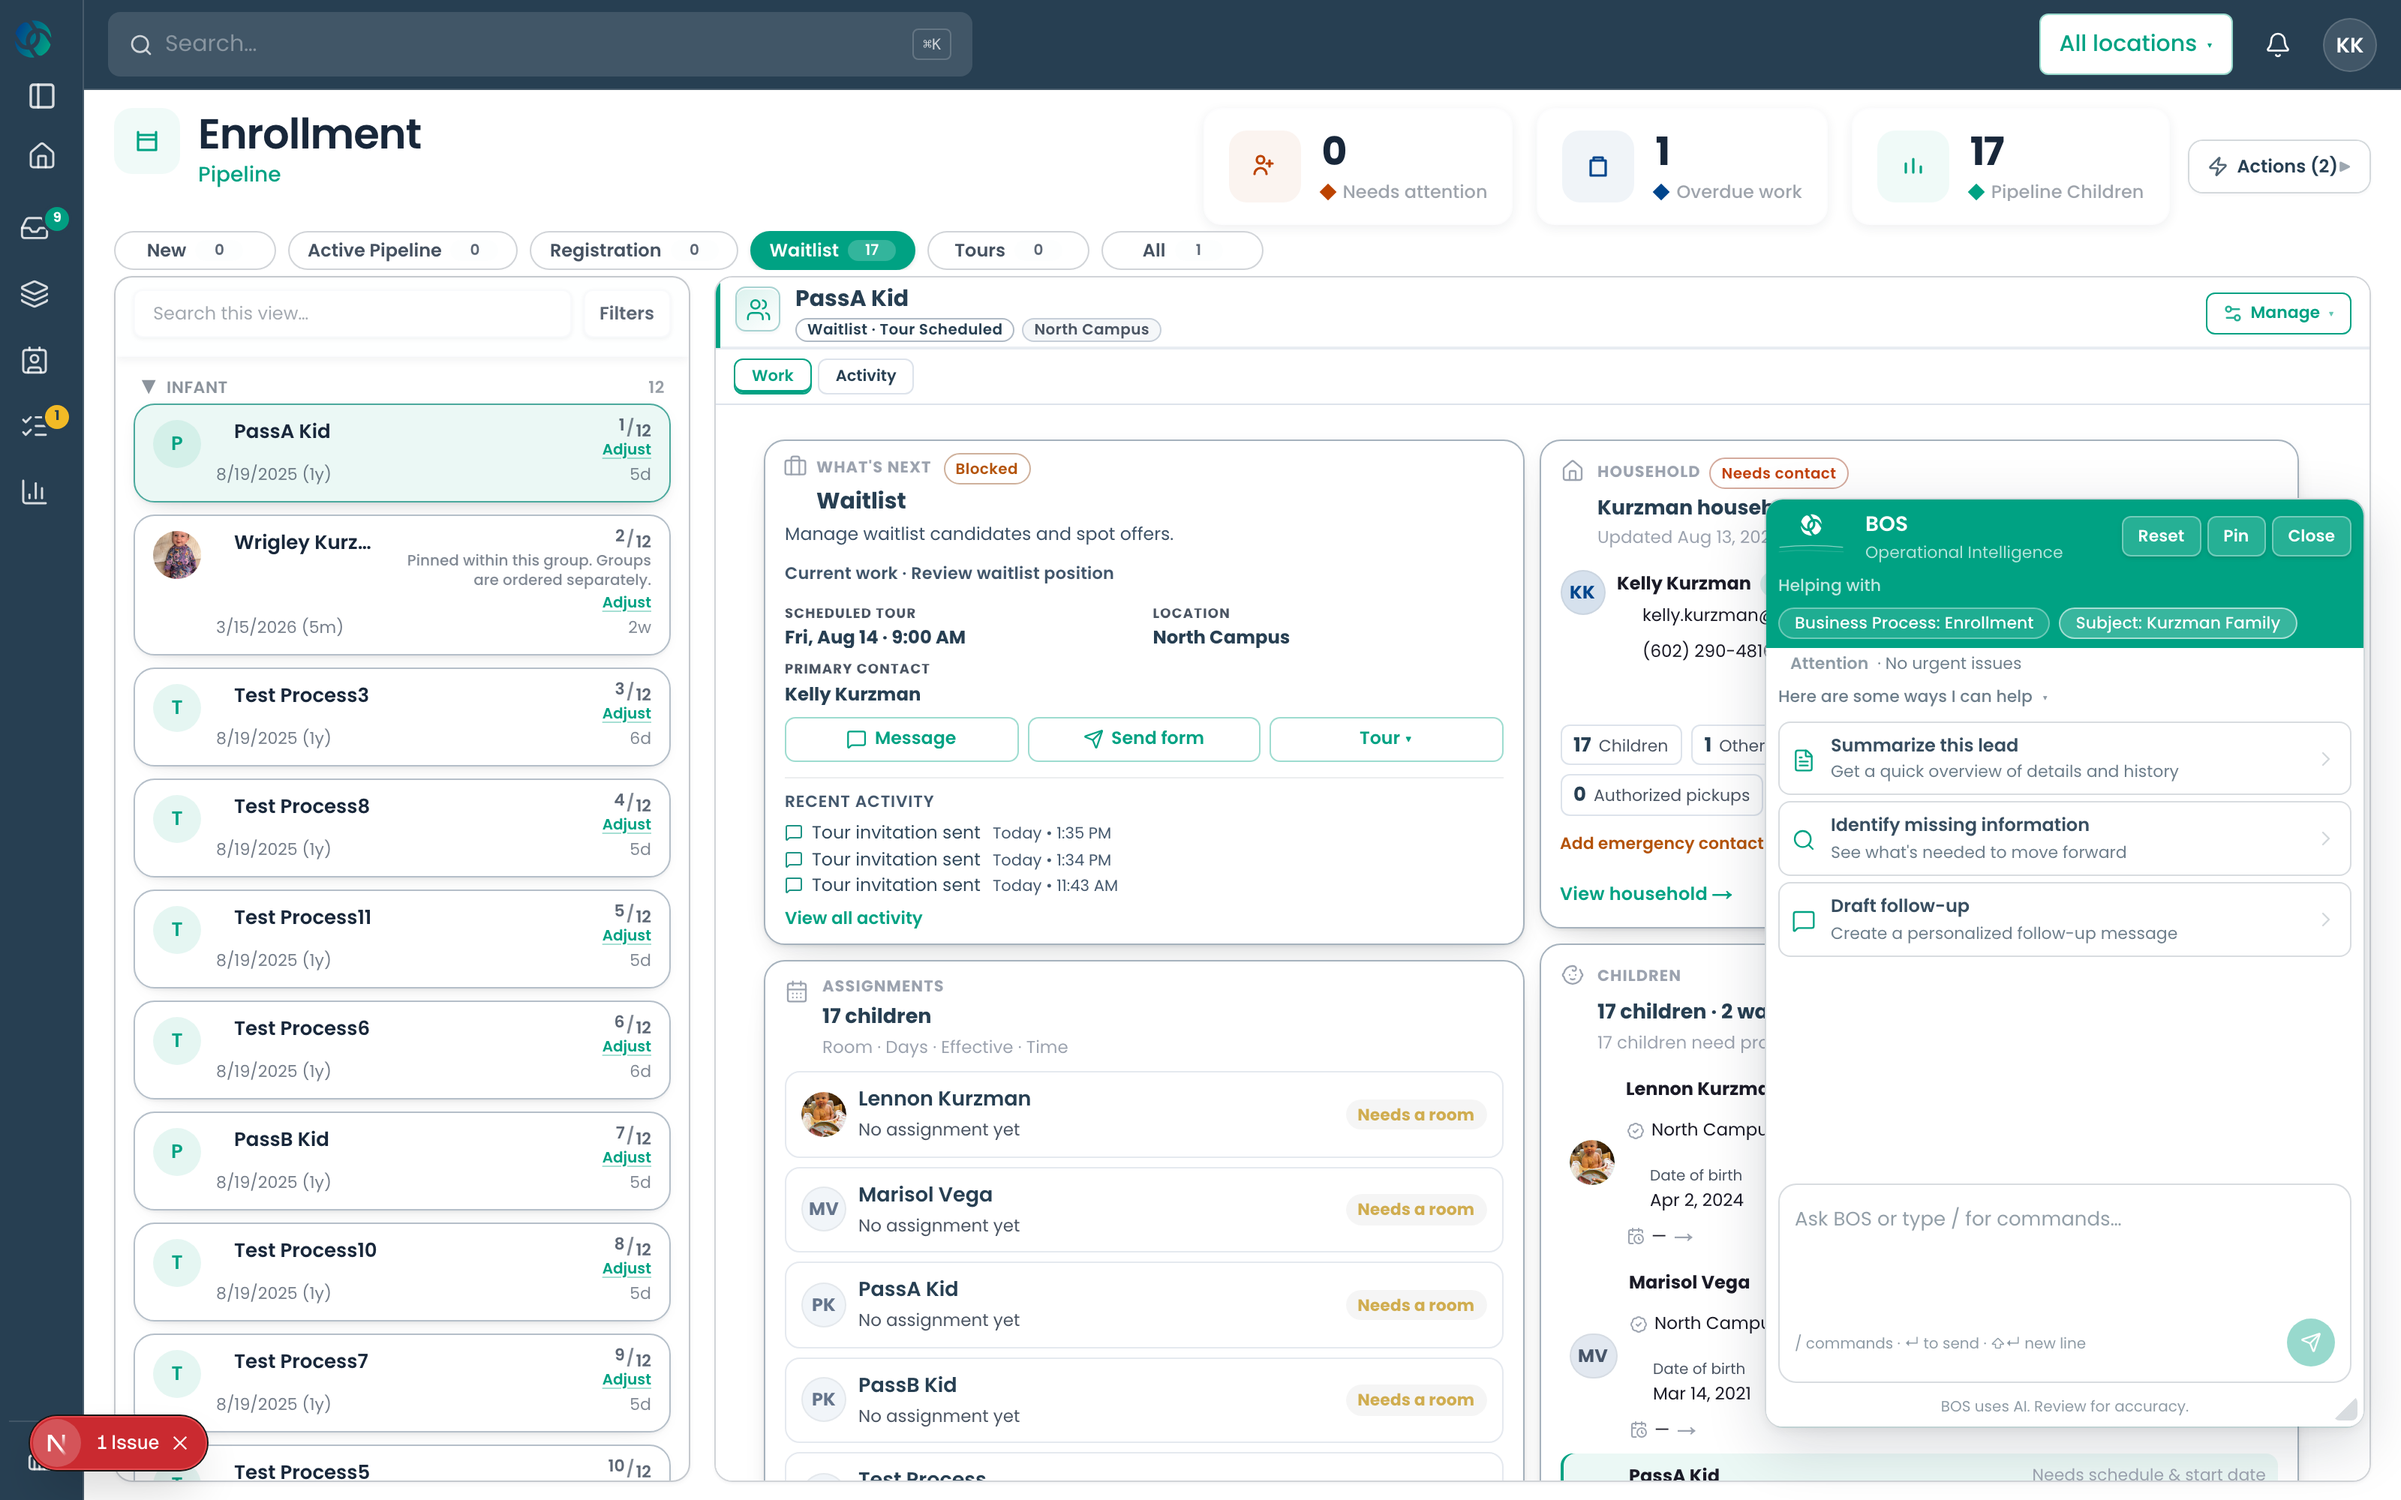
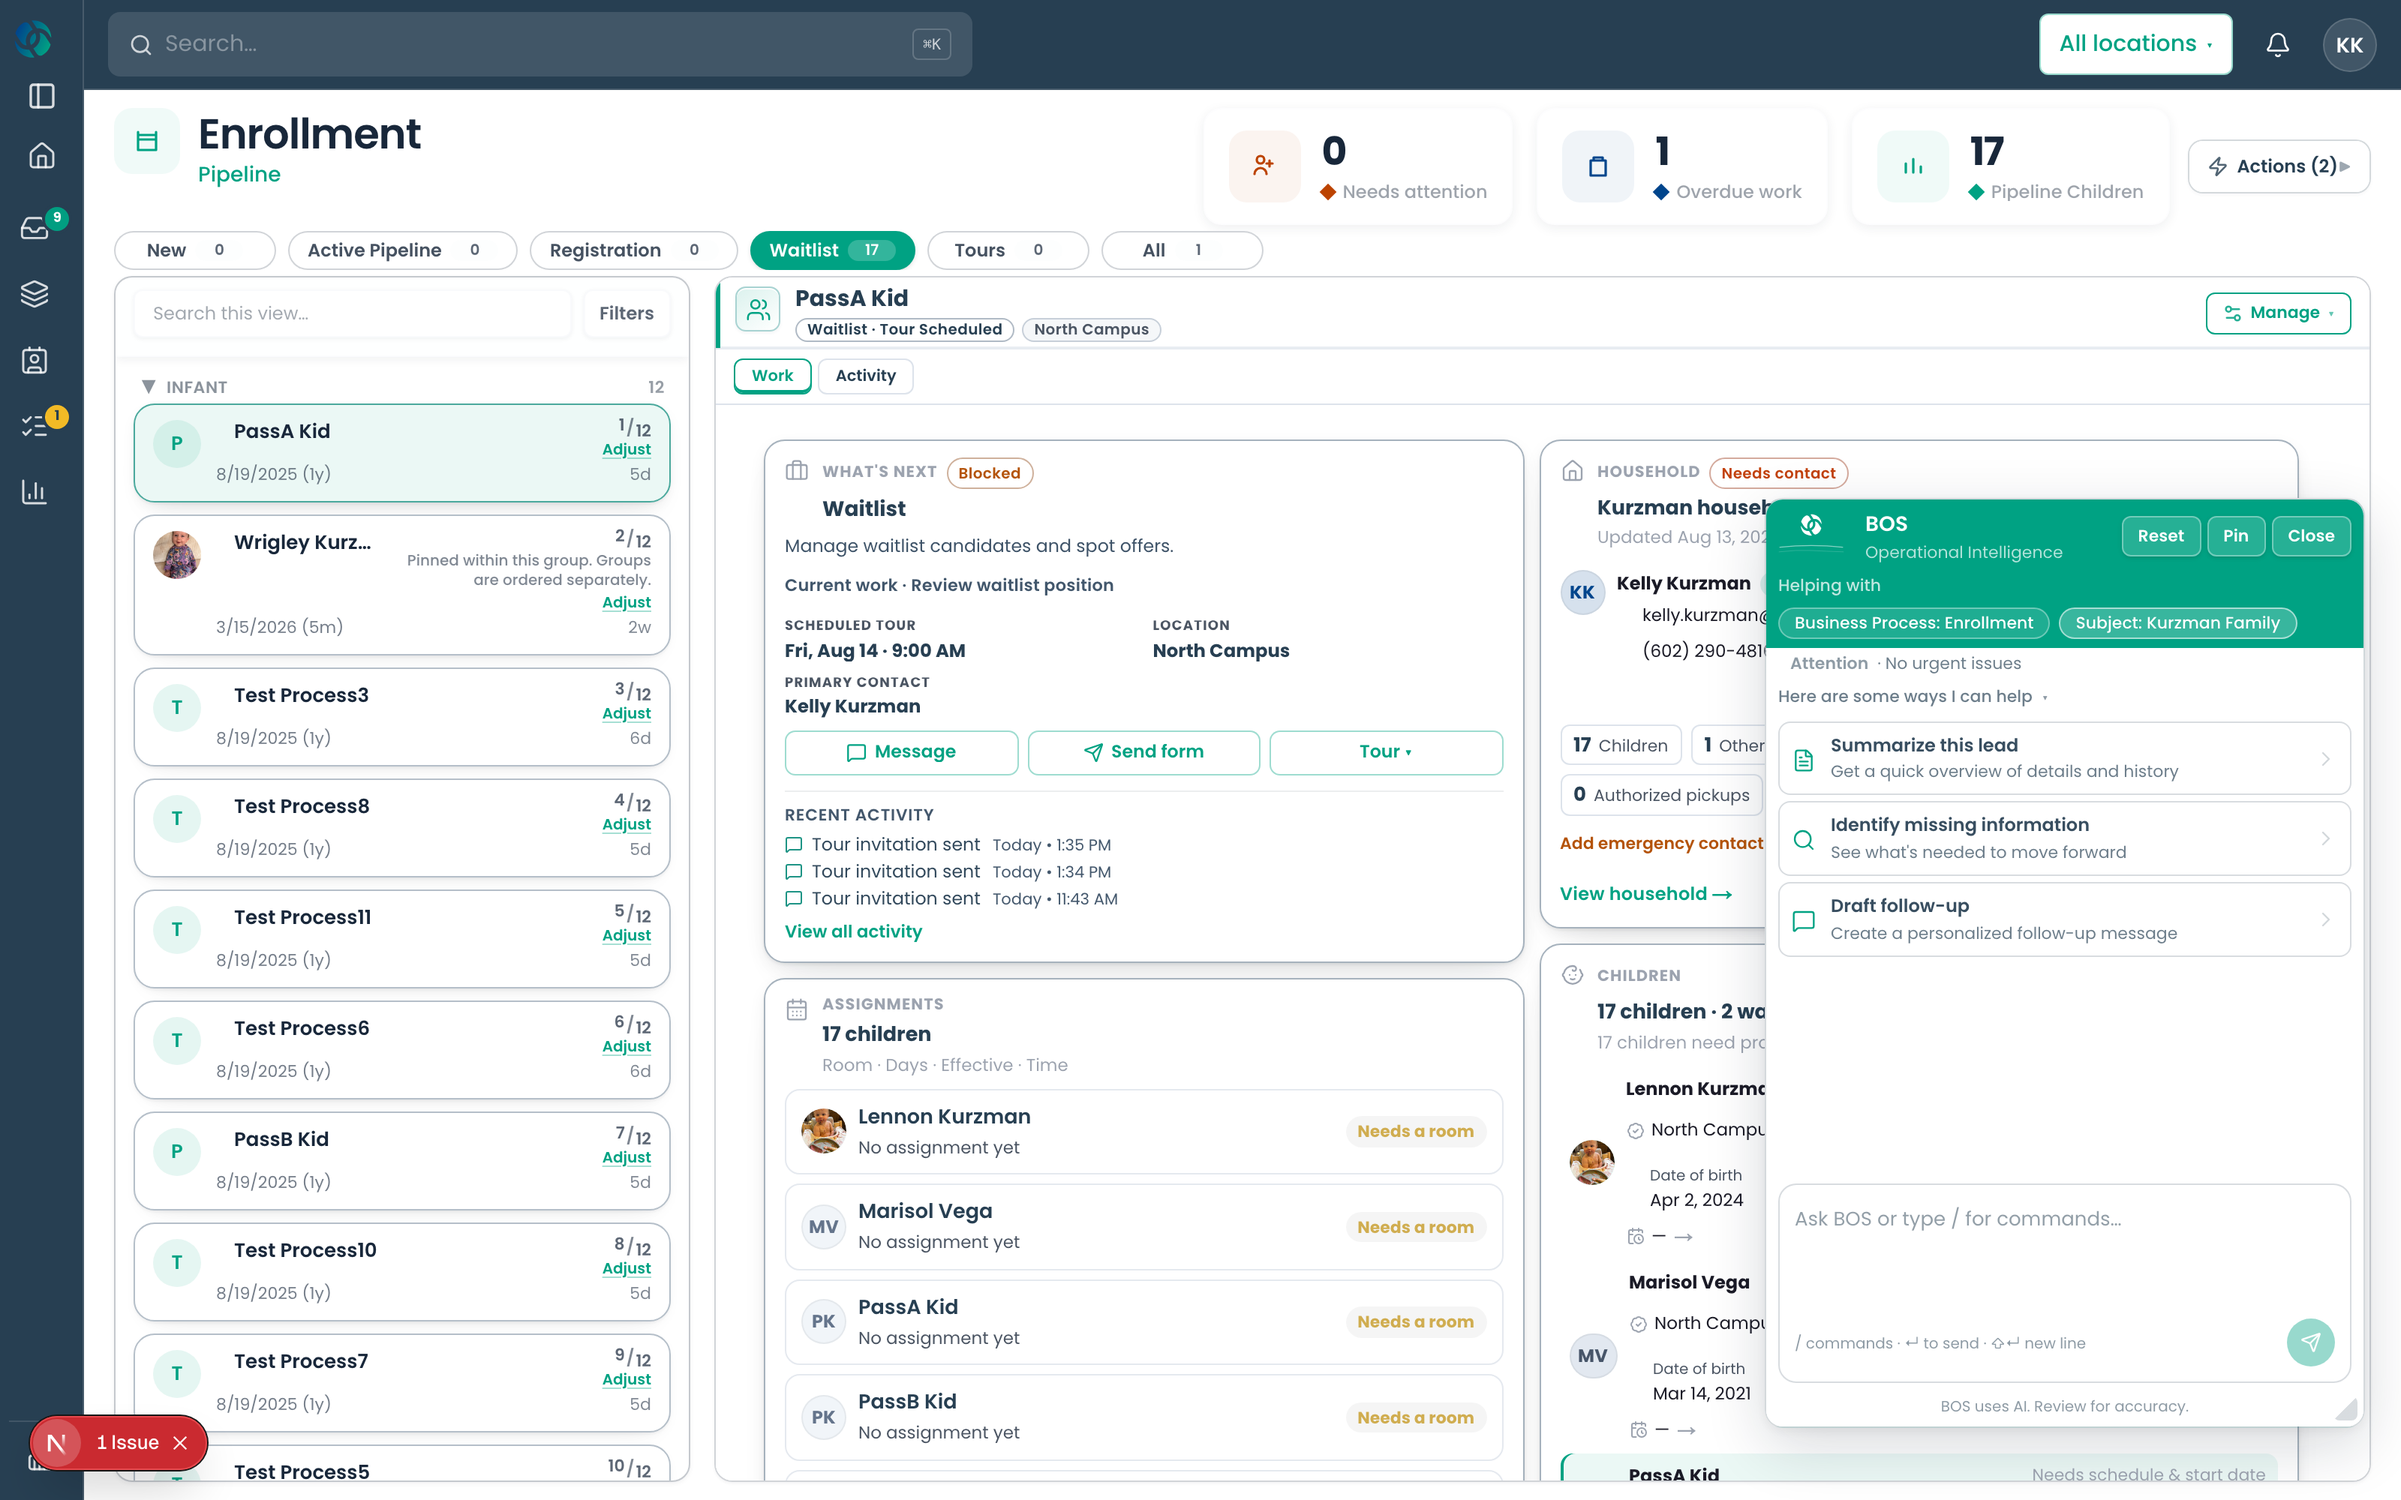
test(focus-panel): attribute the identity change against a baseline
The first look suggested ~25 new failures. Running four affected suites with the
change removed and re-applied settled it: 11 failing at baseline, 11 failing with
the change, 109 passing versus 117. Zero new failures — all 11 are pre-existing on
the merged staging base.

The change broke exactly one assertion, a hardcoded key count of 25, now 26 because
the predecessor key is retained rather than swapped.

Certified live in the real runtime: the published composition moved from
current_work to business_process in the same first position, with the same four
sibling cards in the same order, five cards before and after, no duplicate, no
disappearance and no page errors.

diff --git a/web/tests/adminV2/runtime/operationalGrainPlatform.test.ts b/web/tests/adminV2/runtime/operationalGrainPlatform.test.ts
@@ -353,8 +353,11 @@ describe("Doctrine §8.5 — FocusPanelCardKey grain annotations", () => {
     // 25 since `child_identity` joined the vocabulary — the first CHILD-grain card, for the durable
     // child record. (24 was the count once `employment` joined: person-owned truth projected at case
     // grain, back when the case panel was the only surface that composed for a person.)
-    it("FOCUS_PANEL_CARD_KEYS contains all 25 keys", () => {
-        expect(FOCUS_PANEL_CARD_KEYS.length).toBe(25);
+    it("FOCUS_PANEL_CARD_KEYS contains all 26 keys", () => {
+        // 26 since `business_process` was registered as the canonical successor to the
+        // `current_work` CARD. The predecessor key is retained — the concept it names is still a
+        // data owner — so the union grows by one rather than swapping a member.
+        expect(FOCUS_PANEL_CARD_KEYS.length).toBe(26);
     });
 
     it("focusPanelCardModel.ts still annotates each key's grain of origin", () => {

diff --git a/docs/platform/operator/operational-card-production-ledger.md b/docs/platform/operator/operational-card-production-ledger.md
@@ -348,3 +348,31 @@ controls must not render.
 | Second defect | On genuine type errors the broker reports `class=config` and prints *"FAILED TO START … the command never ran"* — while the compiler plainly ran and emitted `error TS2741`. The message contradicts its own output and would send an agent looking for a config fault instead of the type error |
 
 Do not weaken Alloy's typecheck heap to accommodate the broker.
+
+### Browser certification of the identity change
+
+Real runtime, same route as §8. The published composition before and after:
+
+```
+before   current_work · scheduling · household · children · billing_preview
+after    business_process · scheduling · household · children · billing_preview
+```
+
+Same first position, same siblings, same order, five cards both times. No duplicate, no
+disappearance, 0 page errors. Panel readiness 6.58s vs 6.65s — unchanged (dev build; not a
+production figure).
+
+### Regression attribution
+
+The identity change was measured against a baseline rather than assumed. Running four affected
+suites with the change removed and re-applied:
+
+| | Failing | Passing |
+|---|---|---|
+| Baseline (change removed) | **11** | 109 |
+| With the change | **11** | 117 |
+
+**Zero new failures.** All 11 are pre-existing on the merged staging base and unrelated to card
+identity. The change caused exactly one break — a hardcoded `FOCUS_PANEL_CARD_KEYS.length === 25` —
+now 26, because the predecessor key is *retained* rather than swapped. The first read of the run had
+looked like ~25 new failures; only the failing-test **list** distinguished mine from the base's.
